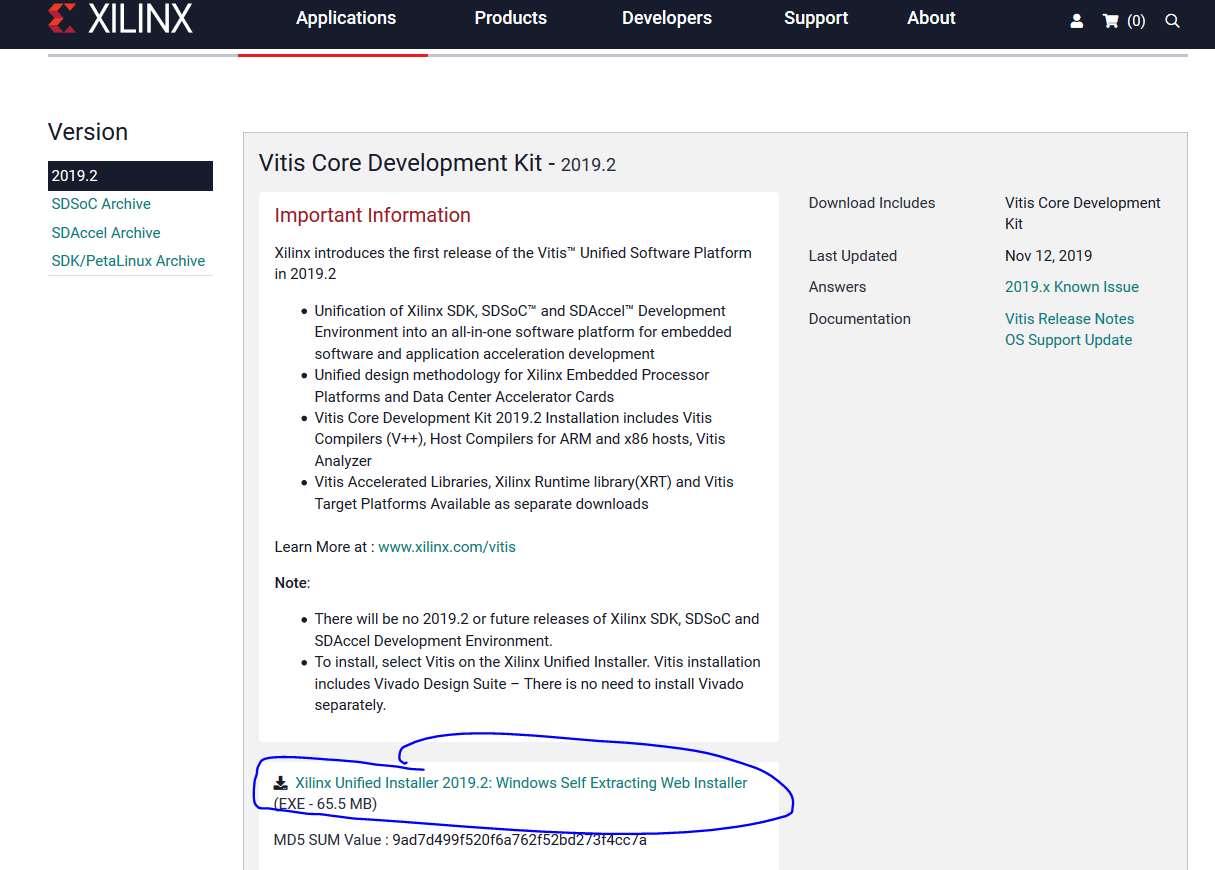
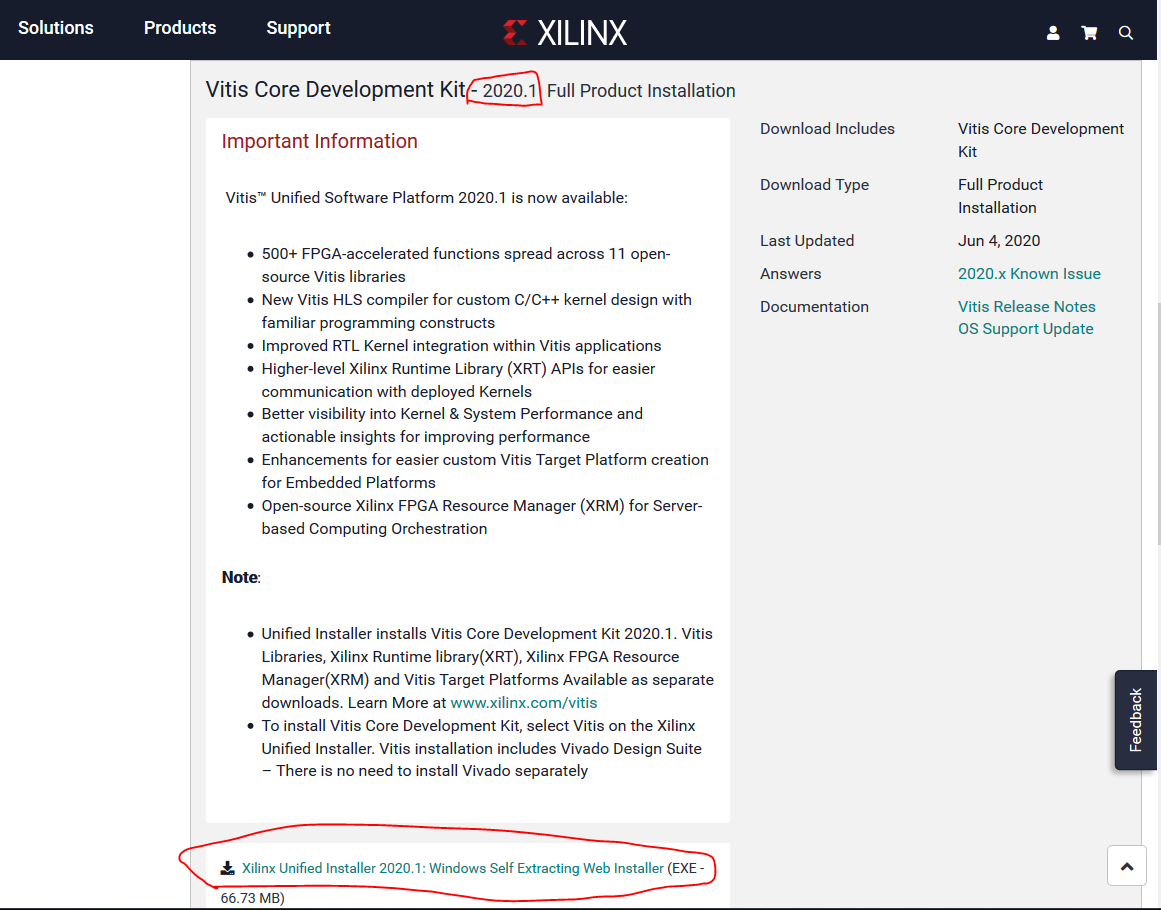
Updates the pictures for the installation process of Vitis 2020

diff --git a/docs/source/getting_started/toolchain/xilinx_toolchain.rst b/docs/source/getting_started/toolchain/xilinx_toolchain.rst
@@ -7,7 +7,7 @@ Xilinx Toolchain
 .. image:: ./images_installation/vitis_website1.png
 
 2. Choose Name, Adresse, E-Mail, etc.
-3. File Xilinx_Unified_2019.2_1106_2127_Win64.exe run. Click Next
+3. File Xilinx_Unified_2020.1_0602_1208_Win64.exe run. Click Next
 4. Select Download and Install Now and sign in with your Xilinx user account. Click Next
 
 .. image:: ./images_installation/vitis_website2.png
